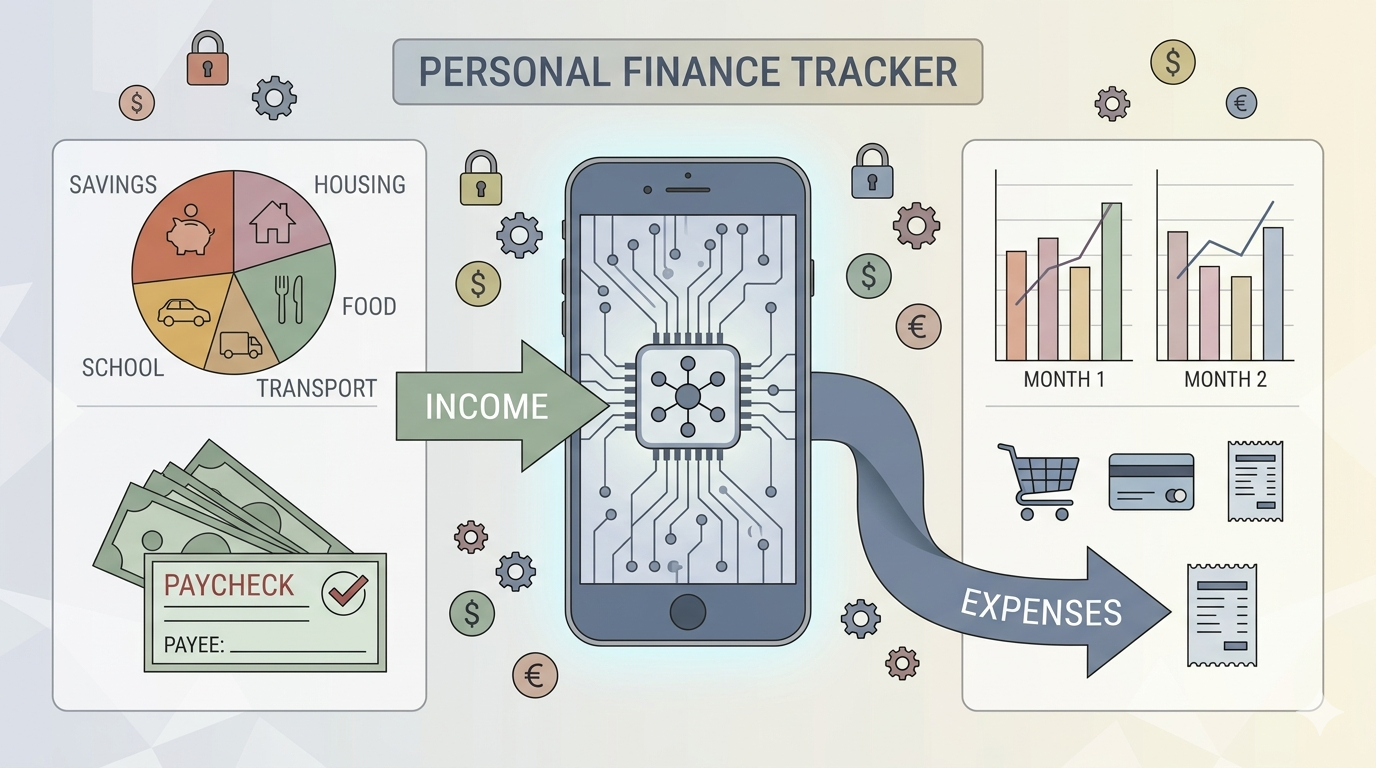
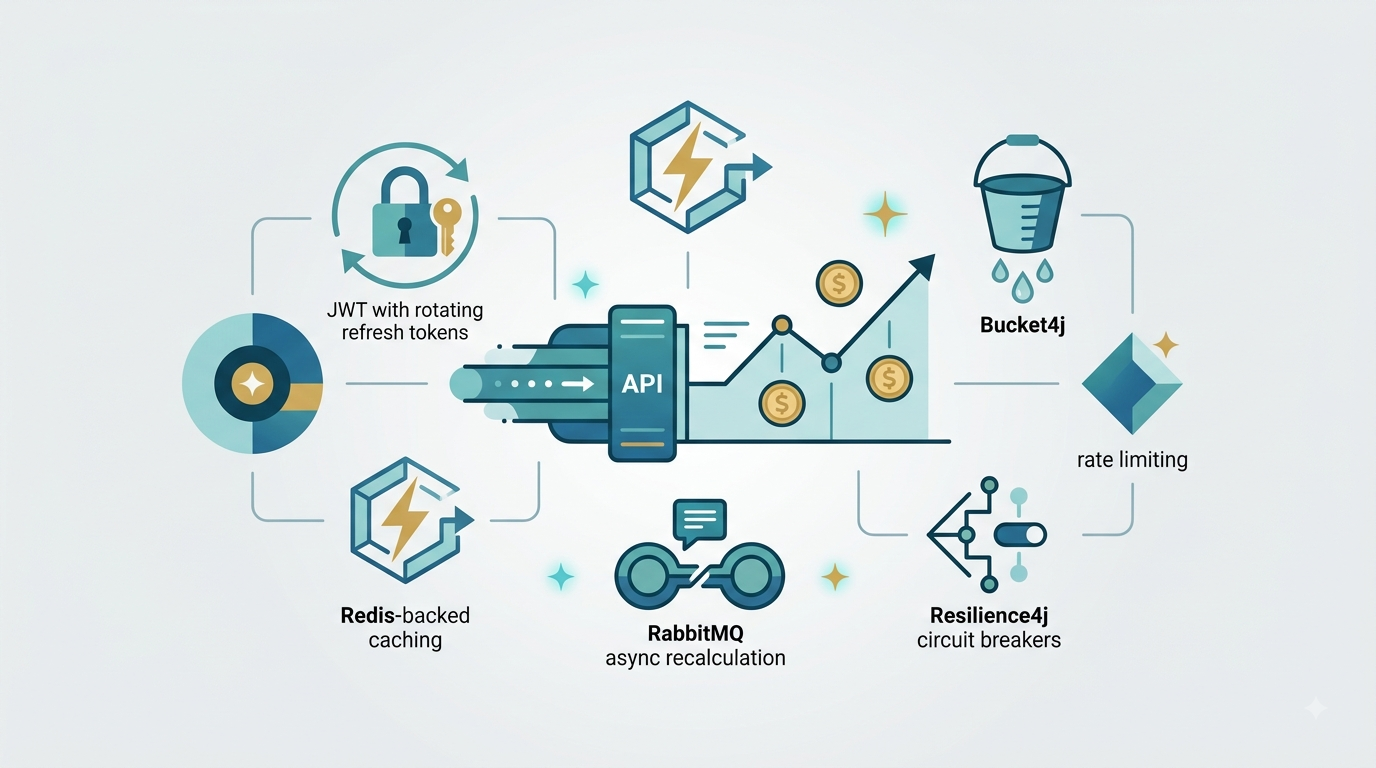
more changes

diff --git a/index.html b/index.html
@@ -324,33 +324,34 @@
         <div class="project-container reveal  extra-project" id="project3-container"  style="display: none">
           <div class="project-header">
             <ul>
-              <li class="proyect-language">PHP</li>
-              <li class="proyect-language">MySQL</li>
-              <li class="proyect-language">JS</li>
+              <li class="proyect-language">HTML5</li>
+              <li class="proyect-language">Tailwind CSS</li>
+              <li class="proyect-language">JavaScript</li>
             </ul>
             <div class="project-actions">
-              <a href="https://github.com/alexricardo02/webtechnologien-pm-a-team-9.git" target="_blank"
-                class="btn-icon" title="View Code">
+              <a href="https://intermainz.de/" target="_blank" class="btn-icon"
+                title="View Live Website">
                 <svg xmlns="http://www.w3.org/2000/svg" width="20" height="20" viewBox="0 0 24 24" fill="none"
                   stroke="currentColor" stroke-width="2" stroke-linecap="round" stroke-linejoin="round">
-                  <path
-                    d="M9 19c-5 1.5-5-2.5-7-3m14 6v-3.87a3.37 3.37 0 0 0-.94-2.61c3.14-.35 6.44-1.54 6.44-7A5.44 5.44 0 0 0 20 4.77 5.07 5.07 0 0 0 19.91 1S18.73.65 16 2.48a13.38 13.38 0 0 0-7 0C6.27.65 5.09 1 5.09 1A5.07 5.07 0 0 0 5 4.77a5.44 5.44 0 0 0-1.5 3.78c0 5.42 3.3 6.61 6.44 7A3.37 3.37 0 0 0 9 18.13V22">
-                  </path>
+                  <path d="M18 13v6a2 2 0 0 1-2 2H5a2 2 0 0 1-2-2V8a2 2 0 0 1 2-2h6"></path>
+                  <polyline points="15 3 21 3 21 9"></polyline>
+                  <line x1="10" y1="14" x2="21" y2="3"></line>
                 </svg>
               </a>
             </div>
           </div>
           <div class="project-description">
-            <h3>Criminal Statistics Web Dashboard</h3>
+            <h3>F.C. Inter Mainz 2005 Web Platform</h3>
             <p class="project-description-text">
-              Collaborative SCRUM project featuring interactive data
-              visualization with a robust real-time MySQL database
-              architecture, seamlessly integrated with an interactive backend
-              for processing large datasets efficiently.
+              Modern, fully responsive official platform designed 
+              and built for amateur sports club F.C. Inter Mainz 2005. 
+              Features headless CMS integration with Decap CMS for dynamic 
+              content management, mobile-first design, automated event feeds, 
+              and integrated communication features.
             </p>
           </div>
           <div class="project-fotos">
-            <img class="single-project-foto" src="./dashboard.png" alt="Criminal Statistics Dashboard"
+            <img class="single-project-foto" src="./intermainzwebsite.png" alt="F.C. Inter Mainz 2005 Web Platform"
               id="accident-foto" />
           </div>
         </div>
